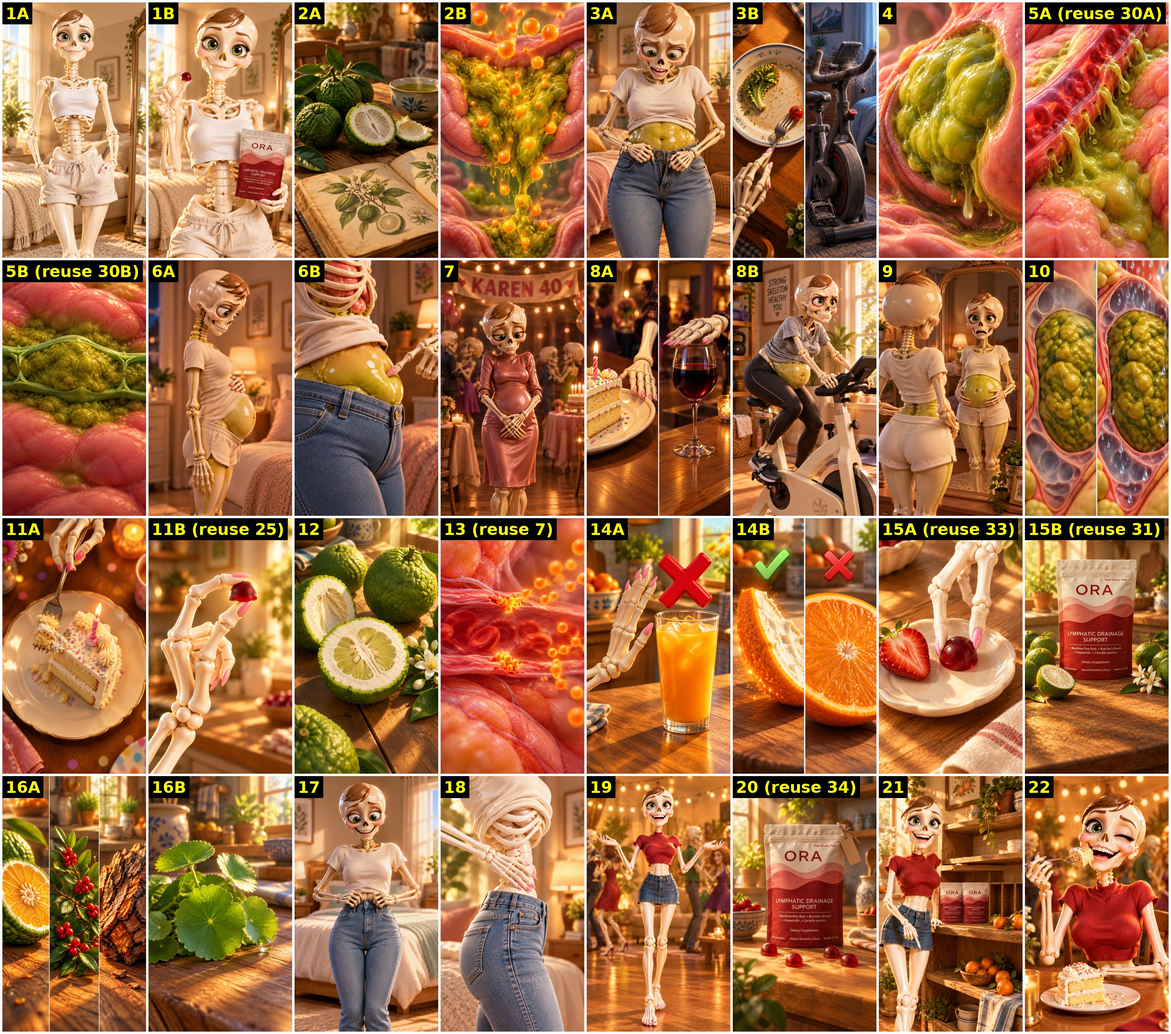
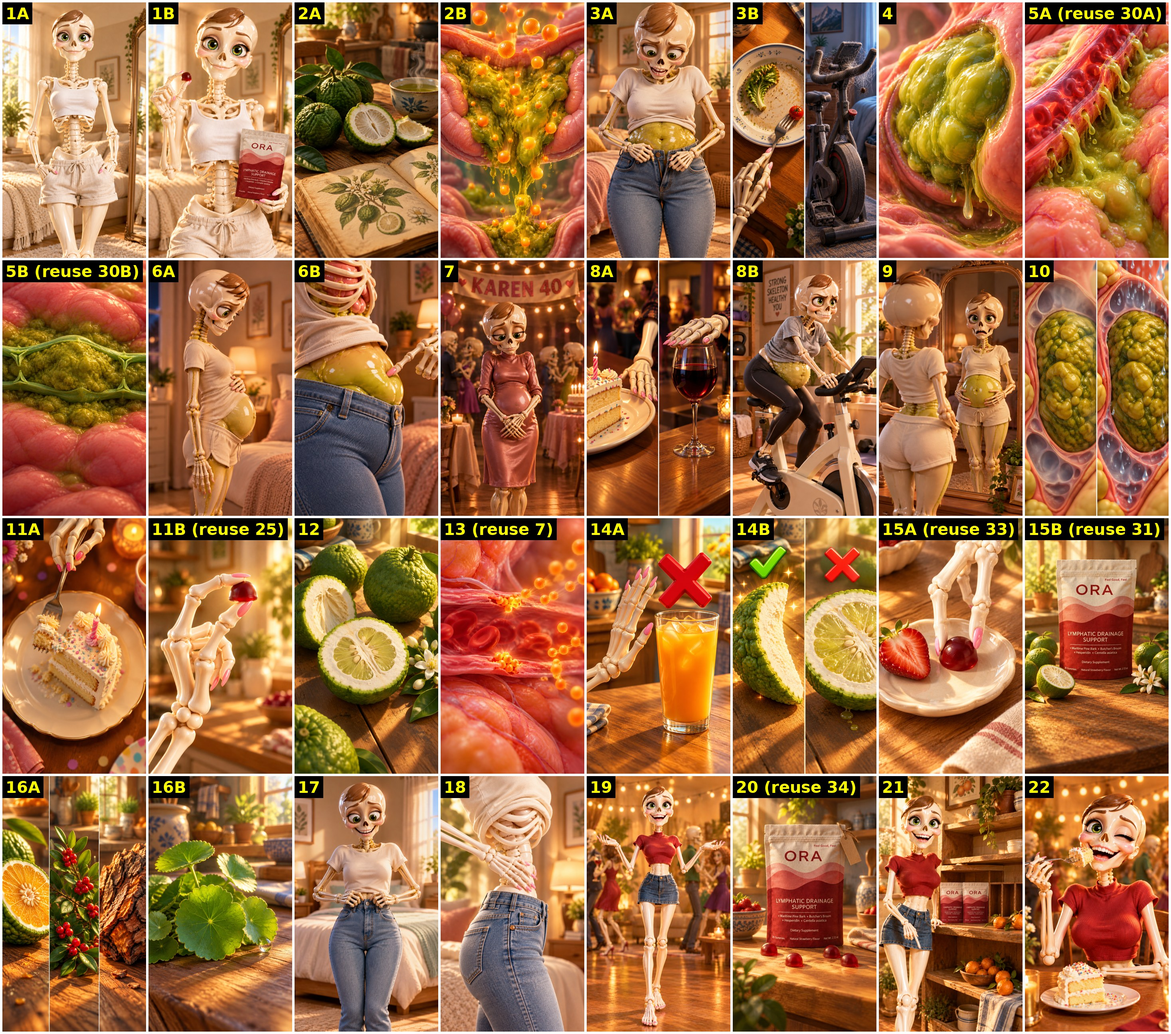
Belly killer: redo 14B with green bitter orange peel
Claude-Session: https://claude.ai/code/session_01B91YnQnevLKqPhwBUBVUWL

Changed region(s): [[0.6203, 0.4942, 0.7754, 0.7722]]

diff --git a/projects/ora-belly-killer/shots.md b/projects/ora-belly-killer/shots.md
@@ -26,7 +26,7 @@ Music for the edit: blade_runner_2049_synthwave_goose.MP3 (user upload).
 | 12 | 816e0af3-0bf7-4d6b-a6a6-de8209c8d505 | |
 | 13 | - | REUSE legs-ad clip ab86479e-c892-4281-a9c5-0578402208d4 (clip_08_7) |
 | 14A | fd3fd584-9e99-4548-9cae-f21562a5b6d8 | |
-| 14B | 2ac171ad-d5fa-4e18-b853-038fb37f3910 | |
+| 14B | 37979374-0b9c-4e08-9fb8-fa73a8b09483 | redo: green bitter orange peel |
 | 15A | - | REUSE legs-ad clip 3bbe041e-b3e7-4271-9451-e558ccf21ecd (clip_35_33) |
 | 15B | - | REUSE legs-ad clip db7af383-bd1c-41a9-9f46-f507b445c326 (clip_33_31) |
 | 16A | 305da37a-166c-4ba4-86b8-e597b1280bc5 | |
